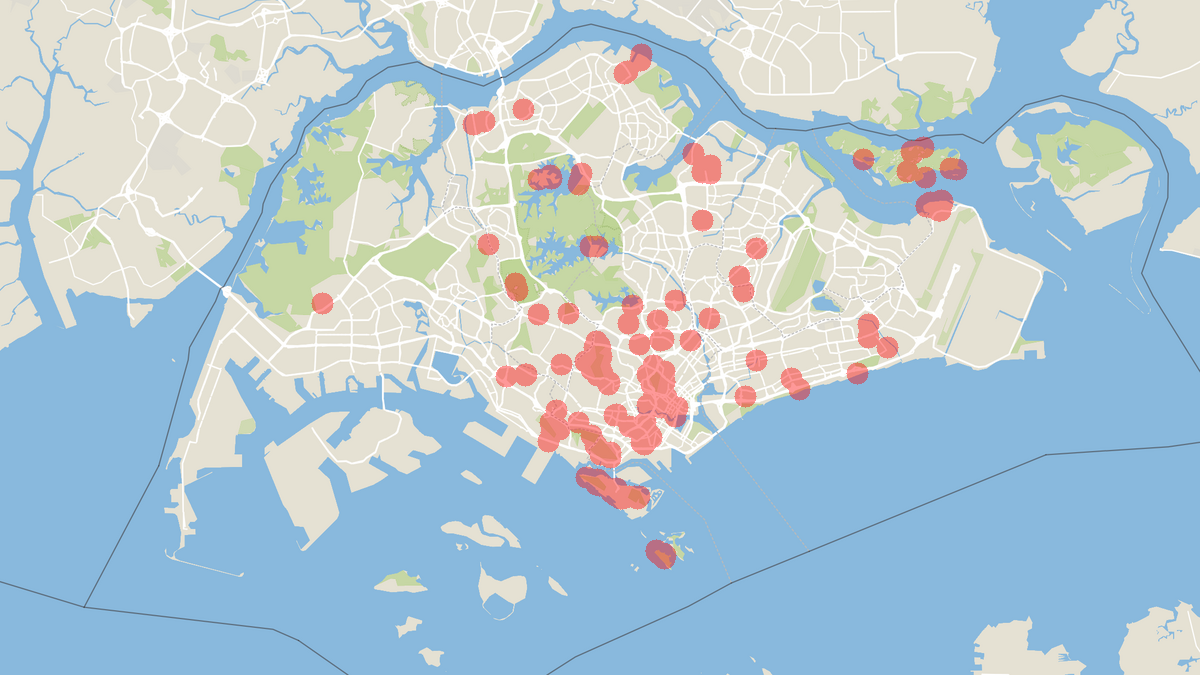
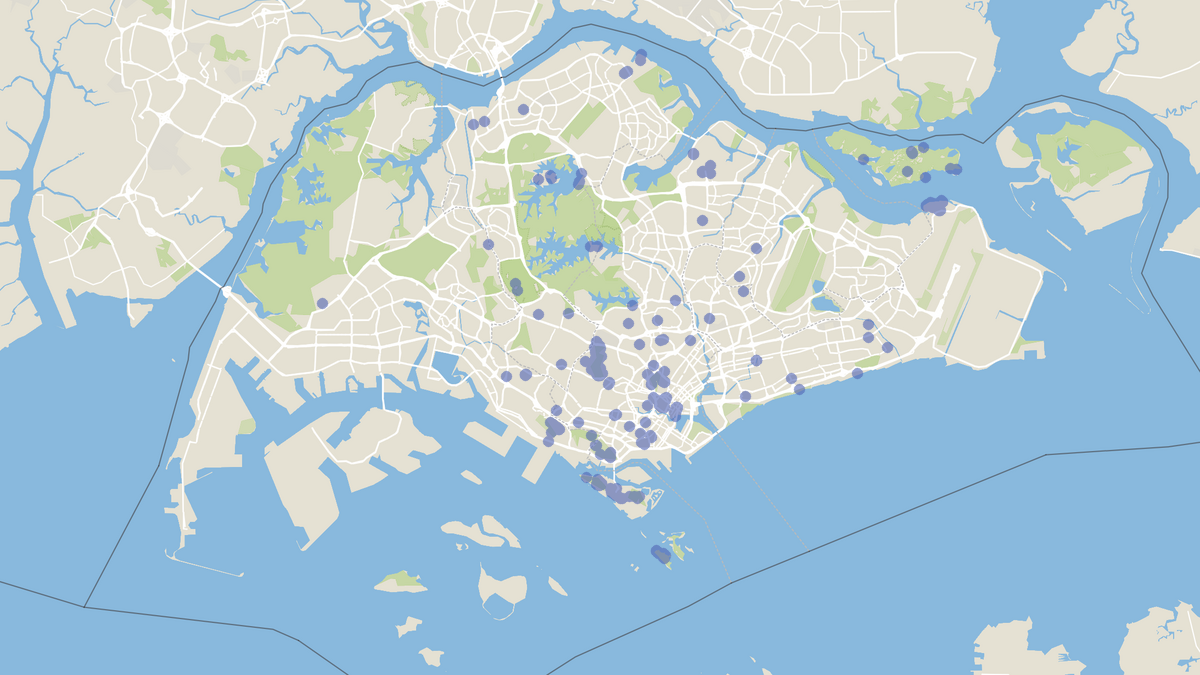
lonely tree markers

diff --git a/onemapapi.py b/onemapapi.py
@@ -40,6 +40,7 @@ trees = open('treelandmark.txt','r')
 treedata = trees.readlines()
 treelist = []
 pairedtrees = []
+lonelyrad = 300 / 52.86350931175258
 
 for tree in treedata:
     # data = tree.strip().split(" ")
@@ -48,9 +49,9 @@ for tree in treedata:
     x = float(coordx) / 53.46857706205027 + 109.82942242120629
     y = float(coordy) / -53.80520436884234 + 973.5925323454103
     treelist.append([name,lat,lng,coordx,coordy,x,y])
-    cv2.circle(copy, (int(x),int(y)), 11, (0,0,255), cv2.FILLED,8,0)
+    cv2.circle(copy, (int(x),int(y)), m.floor(lonelyrad), (180,100,80), cv2.FILLED,16,0)
 
-threshold_distance = 11
+threshold_distance = lonelyrad * 2
 
 # Create a list to store pairs of points that are within the threshold distance
 close_points = []
@@ -70,6 +71,11 @@ for i, tree1 in enumerate(treelist):
 
 lonelytrees = [tree for tree in treelist if tree not in pairedtrees]
 print(len(lonelytrees))
+
+lonelytreemap = copy.copy()
+
+for tree in lonelytrees:
+    cv2.circle(lonelytreemap, (int(tree[5]),int(tree[6])), m.floor(lonelyrad), (0,0,255), cv2.FILLED,16,0 )
       
 # Coord conversion API
 # url = "https://www.onemap.gov.sg/api/common/convert/4326to3414?latitude=1.254994&longitude=103.785515"
@@ -80,12 +86,17 @@ print(len(lonelytrees))
 # url = "https://www.onemap.gov.sg/api/public/themesvc/getAllThemesInfo?moreInfo=Y"
 # url = "https://www.onemap.gov.sg/api/public/themesvc/getThemeInfo?queryName="
 
-alpha = 0.4  # Transparency factor
-image_new = cv2.addWeighted(copy, alpha, pic, 1 - alpha, 0)
+alpha = 0.6  # Transparency factor
+alltrees = cv2.addWeighted(copy, alpha, pic, 1 - alpha, 0)
 
-cv2.imshow("Singapore Map",image_new)
+beta = 0.6
+lonelytreees = cv2.addWeighted(lonelytreemap, beta, pic, 1 - beta, 0)
+
+cv2.imshow("Singapore Map",alltrees)
+cv2.imshow("Lonely Tree Map", lonelytreees)
 cv2.waitKey(0)
-cv2.imwrite("singaporetrees.png",image_new)
+cv2.imwrite("singaporetrees.png",alltrees)
+cv2.imwrite("lonelysgtrees.png",lonelytreees)
 
 
 
